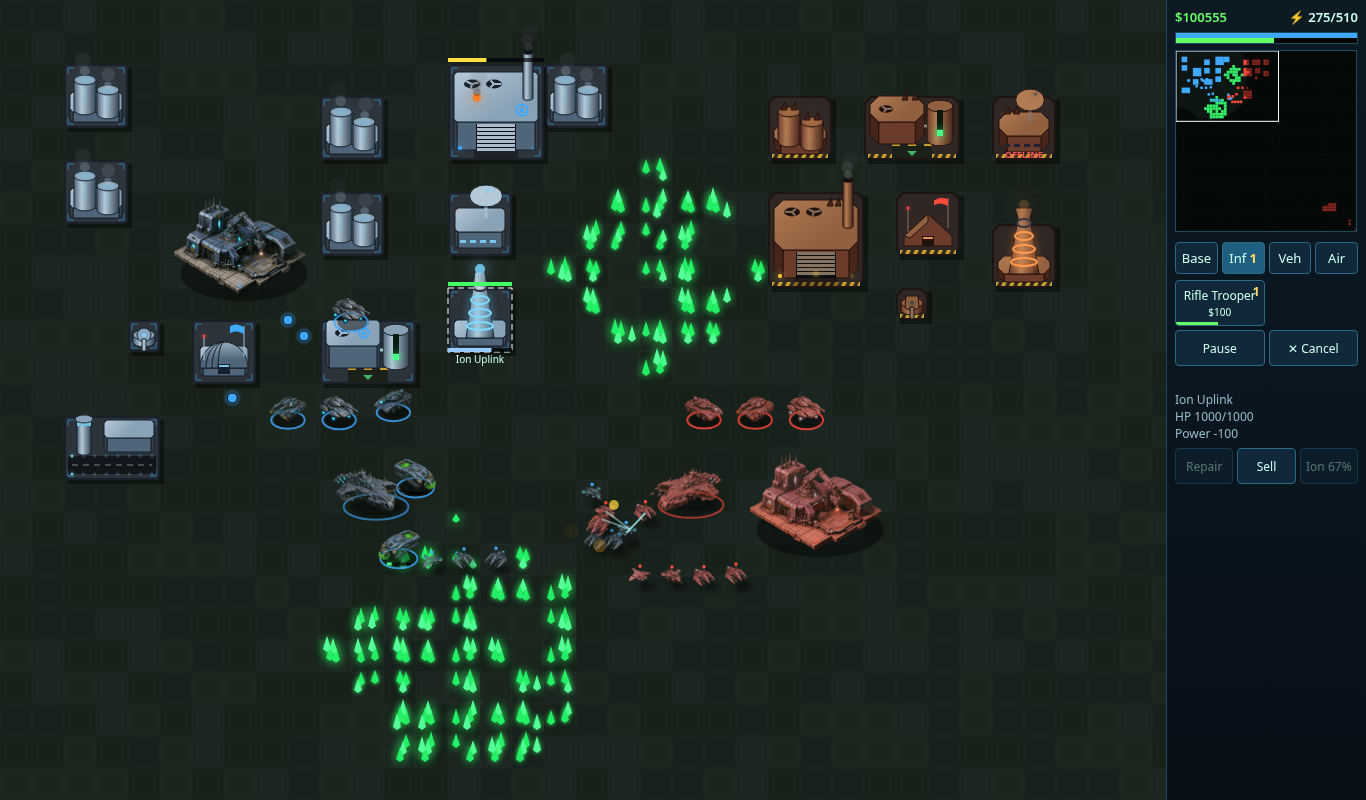
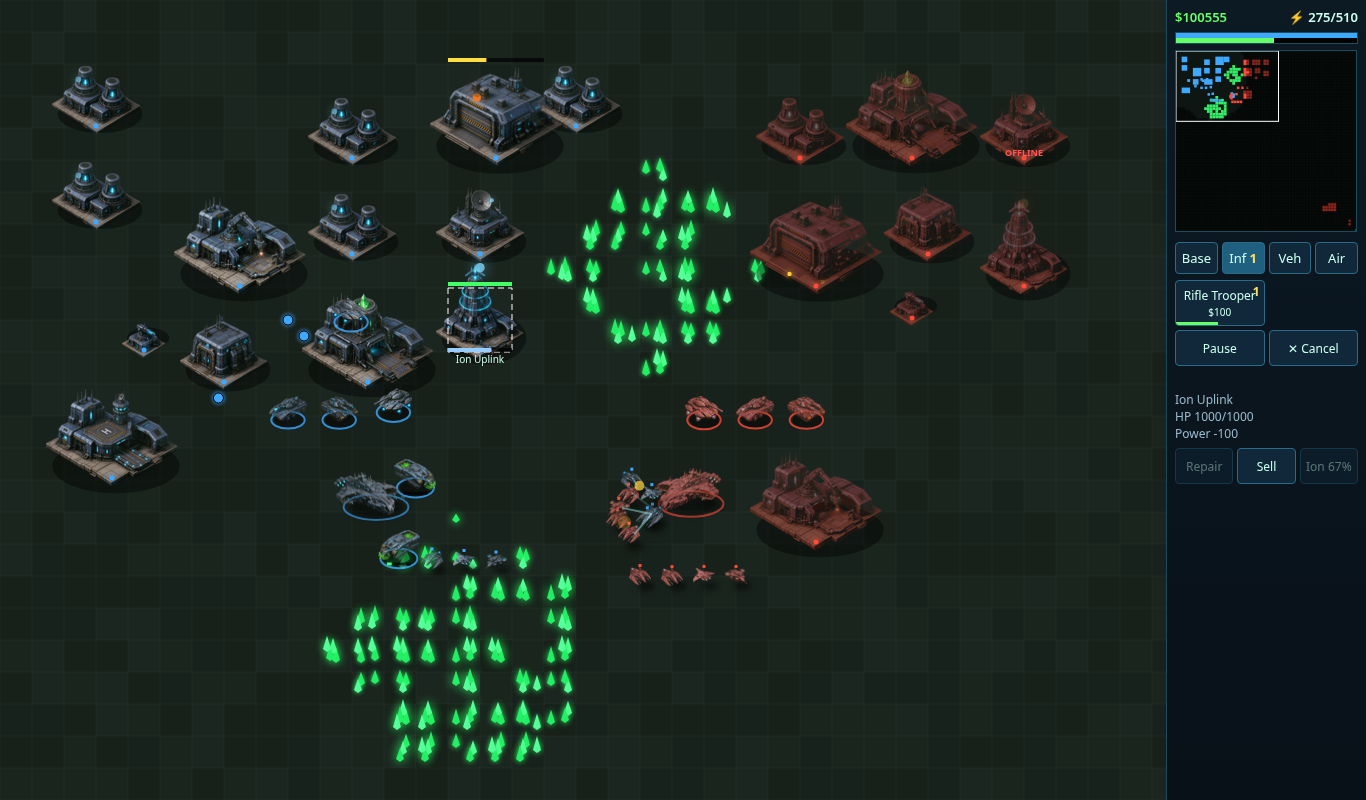
v4 (visual only): isometric artwork for all structures + overlays, procedural fallback

diff --git a/src/engine/buildingArt.js b/src/engine/buildingArt.js
@@ -85,6 +85,23 @@ function smoke(ctx, x, y, t, n = 3, col = '#9aa') {
   ctx.globalAlpha = 1;
 }
 
+// Light animated overlays on top of the raster sprites (only where they fit the art).
+function overlay(ctx, P, b, X, Y, W, H, t, s, top, sw, sh) {
+  const cx = X + W / 2;
+  if (b.type === 'radar') {
+    if (s.powered) glowDot(ctx, cx + 4 + Math.sin(t * 1.6) * 9, top + sh * 0.18, 2, P.glow, 0.5 + 0.5 * Math.abs(Math.cos(t * 1.6)));
+    else { ctx.fillStyle = '#f55'; ctx.font = 'bold 9px system-ui,sans-serif'; ctx.textAlign = 'center'; ctx.fillText('OFFLINE', cx, Y + H - 4); }
+  } else if (b.type === 'turret') {
+    if (b.flash > 0) glowDot(ctx, cx + Math.cos(b.aim) * 14, Y + H / 2 - 6 + Math.sin(b.aim) * 8, 4, '#9ff');
+  } else if (b.type === 'ion') {
+    const f = s.charge; glowDot(ctx, cx, top + 4, 2 + f * 4 + (f >= 1 ? Math.sin(t * 8) * 1.5 : 0), f >= 1 ? '#fff' : P.glow, s.powered ? 0.3 + f * 0.7 : 0.15);
+  } else if (b.type === 'factory' && s.busy) {
+    glowDot(ctx, cx - sw * 0.2, Y + H - 14, 2.2, '#ffcc33', blink(t, 0.6) ? 1 : 0.2); glowDot(ctx, cx + sw * 0.05, Y + H - 6, 2.2, '#ffcc33', blink(t, 0.6, 0.3) ? 1 : 0.2);
+  } else if (b.type === 'power' && s.powered) {
+    glowDot(ctx, cx - sw * 0.2, top + sh * 0.2, 3, P.glow, 0.35 + 0.35 * Math.sin(t * 3));
+  }
+}
+
 const ART = {
   cy(ctx, P, b, X, Y, W, H, t, s) {
     const r = block(ctx, P, X + 8, Y + 34, W - 16, H - 42, 22);
@@ -227,15 +244,18 @@ export function drawBuildingArt(ctx, b, t, game) {
     charge: b.stats?.superweapon ? b.charge / b.stats.superweapon.chargeTime : 0,
   };
   const build = Math.min(1, (b.age ?? 9) / 1.2); // rise-up animation when placed
-  const spr = b.type === 'cy' ? getSprite('cy', b.team) : null;
+  const spr = getSprite(b.type === 'cy' ? 'cy' : 'b_' + b.type, b.team);
   ctx.save();
   if (!spr) pad(ctx, P, X, Y, W, H);
   if (build < 1) { ctx.beginPath(); ctx.rect(X - 20, Y + H - (H + 80) * build, W + 40, (H + 80) * build + 4); ctx.clip(); }
   if (spr) { // approved isometric artwork (enemy copy is red-tinted); footprint stays the 3x3 tile grid
     const sw = W * 1.38, sh = sw * spr.aspect;
     ctx.fillStyle = '#0006'; ctx.beginPath(); ctx.ellipse(X + W / 2 + 4, Y + H - 14, sw * 0.48, sh * 0.28, 0, 0, 7); ctx.fill();
-    ctx.drawImage(spr.img, X + W / 2 - sw / 2, Y + H + 6 - sh, sw, sh);
-    glowDot(ctx, X + W / 2, Y + H - 2, 2.5, P.accent, blink(t, 1.2) ? 1 : 0.3); // team beacon
+    if (!s.powered) ctx.filter = 'brightness(0.6)'; // dim when unpowered (no-op where ctx.filter is unsupported)
+    ctx.drawImage(spr.img, X + W / 2 - sw / 2, Y + H + 6 - sh, sw, sh); ctx.filter = 'none';
+    const top = Y + H + 6 - sh, cx = X + W / 2;
+    glowDot(ctx, cx, Y + H - 2, 2.5, P.accent, blink(t, 1.2) ? 1 : 0.3); // team beacon
+    overlay(ctx, P, b, X, Y, W, H, t, s, top, sw, sh);
   } else ART[b.type]?.(ctx, P, b, X, Y, W, H, t, s);
   ctx.restore();
   if (build < 1) { ctx.strokeStyle = P.glow; ctx.globalAlpha = 0.8; const yy = Y + H - (H + 60) * build; ctx.beginPath(); ctx.moveTo(X, yy); ctx.lineTo(X + W, yy); ctx.stroke(); ctx.globalAlpha = 1; }

diff --git a/src/engine/sprites.js b/src/engine/sprites.js
@@ -2,7 +2,8 @@
 // team 0 = original steel-blue art, team 1 = red/rust tinted copy so factions stay distinct.
 // get() returns null until loaded or if loading failed, so callers fall back to procedural drawing.
 const TINT = { 1: 'rgba(255,70,40,0.42)' };
-const NAMES = ['cy', 'tank_hover', 'tank_heavy', 'tank_laser', 'carrier', 'icp_drone', 'icp_jet', 'icp_vtol', 'harvester'];
+const NAMES = ['cy', 'tank_hover', 'tank_heavy', 'tank_laser', 'carrier', 'icp_drone', 'icp_jet', 'icp_vtol', 'harvester',
+  'b_power', 'b_refinery', 'b_barracks', 'b_factory', 'b_airfield', 'b_radar', 'b_turret', 'b_ion'];
 const cache = {};
 
 function tinted(img, team) {

diff --git a/tests/playwright_checks.py b/tests/playwright_checks.py
@@ -84,7 +84,7 @@ def run(p, name, ctxargs, browser):
           game.buildings.filter(b=>b.type==='ion').forEach(b=>b.charge=120);
           game.buildings.find(b=>b.type==='factory'&&b.team===0).hp*=0.4; for(let i=0;i<3;i++){game.spawnUnit('tank',0,(9+i*1.6)*32,13*32).angle=i==1?0:Math.PI; const e=game.spawnUnit('tank',1,(22+i*1.6)*32,13*32); e.angle=i==1?Math.PI:0;} game.addBuilding('cy',1,24,14).age=9; game.buildings.at(-1).seen=true; {const c0=game.spawnUnit('carrier',0,12*32,15.5*32); c0.angle=0; const c1=game.spawnUnit('carrier',1,21*32,15.5*32); c1.angle=Math.PI; for(let k=0;k<5;k++){ const i0=game.spawnInterceptor(c0); i0.x=(13.5+k)*32; i0.y=17.5*32; i0.angle=k%2?0:Math.PI; i0.update=()=>{}; const i1=game.spawnInterceptor(c1); i1.x=(19+k)*32; i1.y=18*32; i1.update=()=>{}; }} ui.clearSelection(); ui.select(game.buildings.find(b=>b.type==='ion'&&b.team===0));
           camera.centerOn(mobile? 11*32: 17*32, mobile? 14*32 : 10*32); }""", name != 'desktop')
-        pg.wait_for_timeout(1500); pg.screenshot(path=f'/workspace/rts-art-v3{"" if name=="desktop" else "-mobile"}.png')
+        pg.wait_for_timeout(1500); pg.screenshot(path=f'/workspace/rts-art-v4{"" if name=="desktop" else "-mobile"}.png')
     c.close()
 with sync_playwright() as p:
     b = p.chromium.launch(executable_path='/opt/google/chrome/chrome')

diff --git a/README.md b/README.md
@@ -1,9 +1,14 @@
-# Tiberium Skirmish — RTS Starter (v3)
+# Tiberium Skirmish — RTS Starter (v4)
 
 Top-down futuristic RTS skirmish (you vs. AI), inspired by Command & Conquer, with a StarCraft-style Carrier.
 Plain HTML5 Canvas + ES modules. No build step, no dependencies, no image assets (all art is procedural canvas drawing).
 
 **Play:** https://krepchin.github.io/rts-starter/ · **Run locally:** `python3 -m http.server 8000` here, open http://localhost:8000
+
+## What's new in v4 (visual only)
+All structures now use isometric artwork matching the Construction Yard (steel-blue panels, cyan lights, hazard stripes, concrete slabs),
+enemy copies red-tinted, sprites dimmed when unpowered, with small animated overlays (radar sweep glint, turret muzzle flash, Ion charge glow,
+War Factory busy lights, power core pulse). Procedural art remains as fallback. Gameplay unchanged.
 
 ## What's new in v3 (visual only)
 Approved isometric artwork for the Construction Yard (both factions, enemy red-tinted) and three cosmetic Light Tank variants

diff --git a/assets/README.md b/assets/README.md
@@ -5,3 +5,4 @@ Approved isometric artwork, cut out to transparent PNGs (1x + @2x for high-DPI):
 - carrier.png: Carrier; icp_drone (main), icp_jet, icp_vtol: cosmetic Interceptor variants
 - harvester.png: tracked grinder Harvester (green bar under it = hopper fill)
 Loaded by src/engine/sprites.js; if an image fails the procedural art is used.
+- b_power, b_refinery, b_barracks, b_factory, b_airfield, b_radar, b_turret, b_ion: v4 building art (light animated overlays on radar/turret/ion/factory/power; dimmed when unpowered)
